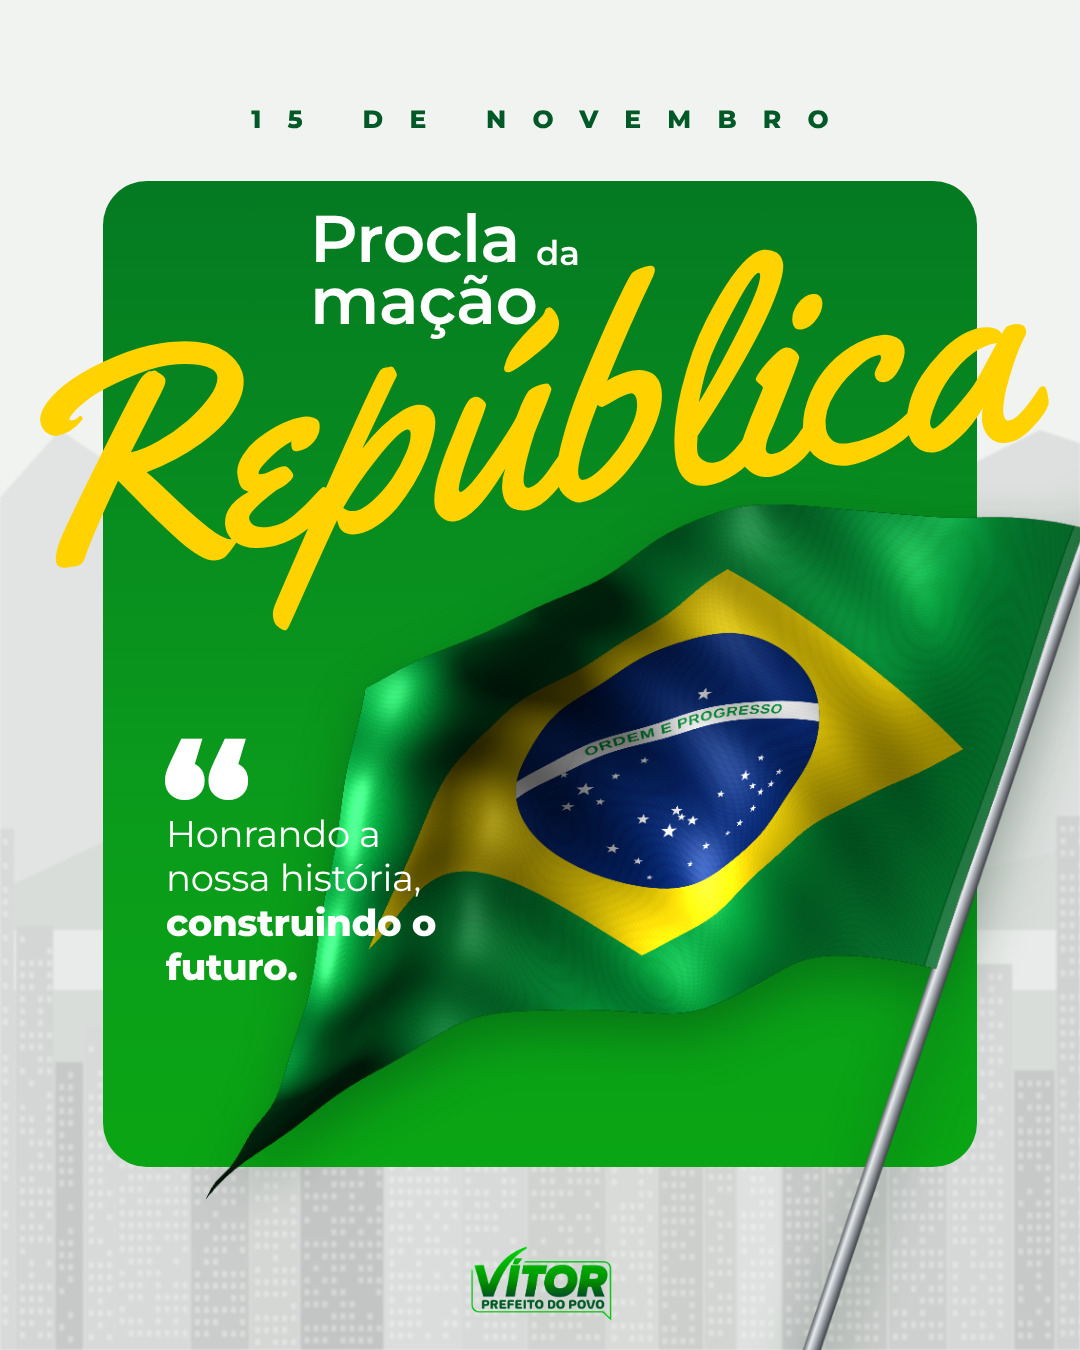
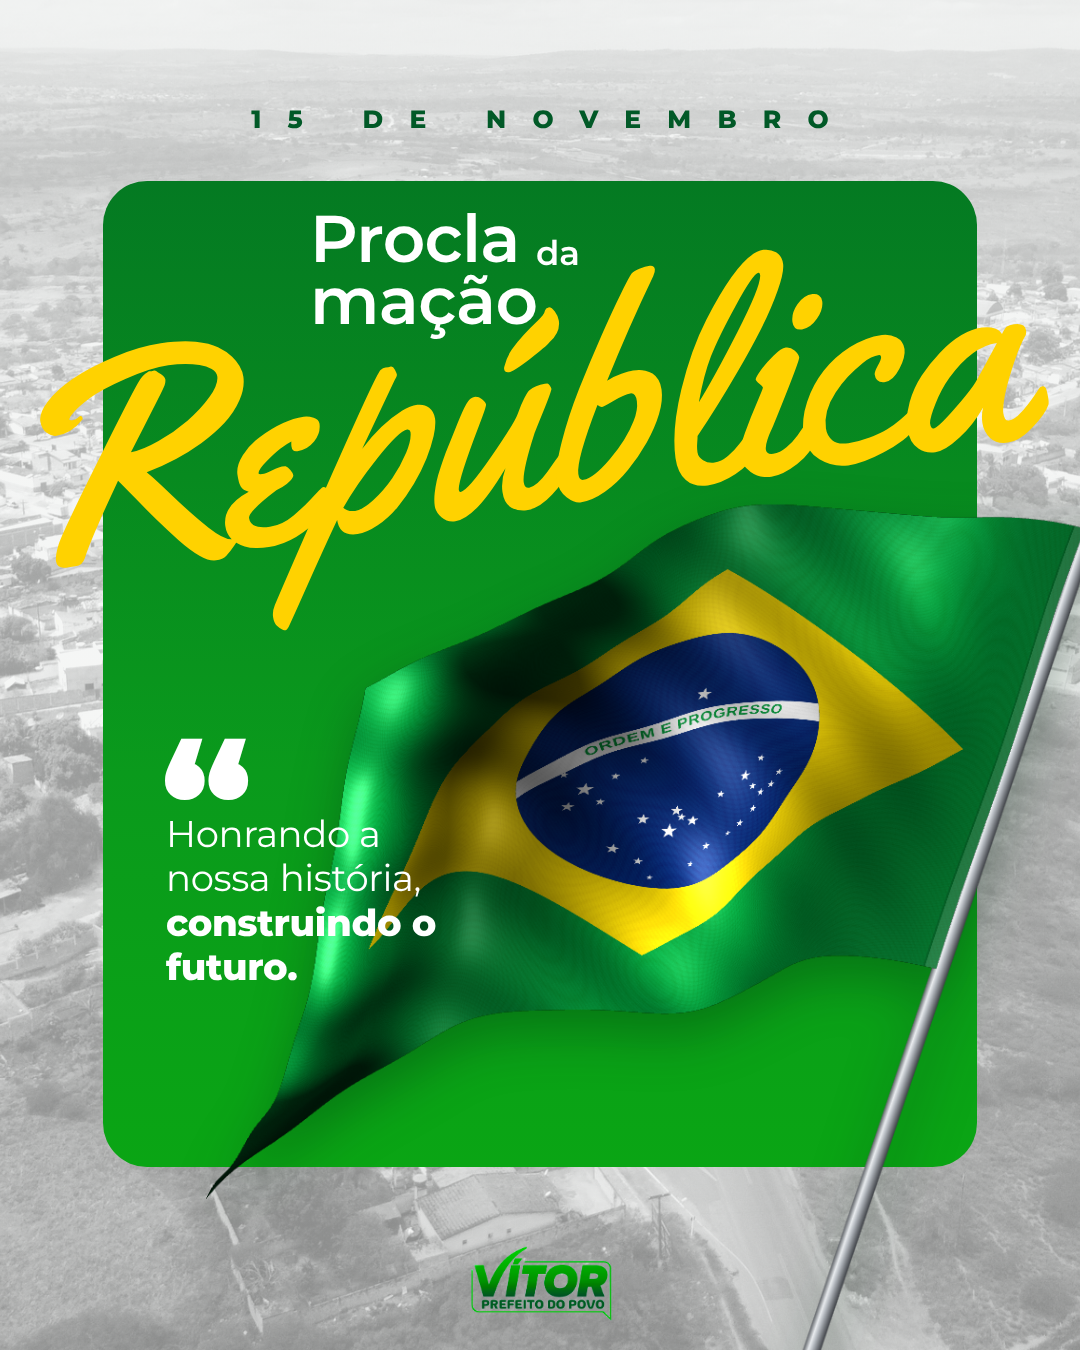
Vitor 15/11: foto aérea de Santanópolis ao fundo (como na referência); salva foto em fotos/cidade
Claude-Session: https://claude.ai/code/session_01RAcsiAg3fWWxJmAb45HbDL

Changed region(s): [[0.0, 0.0311, 1.0, 1.0]]

diff --git a/clientes/prefeito-vitor/entregas/2026-11-15-proclamacao-republica/card.html b/clientes/prefeito-vitor/entregas/2026-11-15-proclamacao-republica/card.html
@@ -4,7 +4,8 @@
 <style>
 *{box-sizing:border-box;margin:0}
 body{width:1080px;height:1350px;overflow:hidden;position:relative;font-family:Montserrat,sans-serif;background:#EEF0EF}
-#cidade{position:absolute;inset:0;filter:blur(1.2px)}
+#cidade{position:absolute;left:0;top:0;width:1080px;height:1350px;object-fit:cover;object-position:52% 60%;filter:grayscale(1) contrast(.85) brightness(1.18);opacity:.55}
+.velo{position:absolute;inset:0;background:linear-gradient(180deg,rgba(240,242,241,.55),rgba(240,242,241,.25) 60%,rgba(240,242,241,.15))}
 .data{position:absolute;top:104px;left:0;right:0;text-align:center;font:800 25px Montserrat;letter-spacing:1.05em;padding-left:1.05em;color:#015927}
 .painel{position:absolute;left:103px;top:181px;width:874px;height:986px;border-radius:44px;background:linear-gradient(180deg,#047A22 0%,#0A9A1C 60%,#0AA514 100%)}
 .procla{position:absolute;left:310px;top:206px;font:600 66px/1 Montserrat;color:#fff;letter-spacing:-.01em}
@@ -18,7 +19,7 @@ body{width:1080px;height:1350px;overflow:hidden;position:relative;font-family:Mo
 footer{position:absolute;top:1236px;left:0;right:0;display:flex;justify-content:center}
 footer img{height:96px}
 </style>
-<canvas id="cidade" width="1080" height="1350"></canvas>
+<img id="cidade" src="../../fotos/cidade/santanopolis-aerea-drone-entrada-cidade.jpg" alt=""><div class="velo"></div>
 <div class="data">15 DE NOVEMBRO</div>
 <div class="painel"></div>
 <div class="procla">Procla</div><div class="da">da</div><div class="macao">mação</div>
@@ -27,18 +28,3 @@ footer img{height:96px}
 <div class="aspas">“</div>
 <div class="frase">Honrando a<br>nossa história,<br><b>construindo o<br>futuro.</b></div>
 <footer><img src="../../identidade/logo-vitor-prefeito-do-povo.png" alt=""></footer>
-<script>
-// cidade genérica em tons de cinza (fundo desbotado, como a foto P&B da referência)
-const c=document.getElementById('cidade').getContext('2d');let s=7;const r=()=>(s=(s*16807)%2147483647)/2147483647;
-c.fillStyle='#F2F3F2';c.fillRect(0,0,1080,1350);
-function morro(pts,cor){c.fillStyle=cor;c.beginPath();c.moveTo(pts[0][0],1350);pts.forEach(p=>c.lineTo(...p));c.lineTo(pts[pts.length-1][0],1350);c.fill()}
-morro([[-20,520],[60,430],[120,470],[200,560],[260,640],[330,700],[420,760]],'#D9DCDA');
-morro([[700,700],[800,600],[880,520],[960,470],[1040,430],[1100,450]],'#D3D6D4');
-morro([[-20,900],[150,820],[320,860],[540,900],[760,860],[940,880],[1100,840]],'#CDD1CE');
-c.fillStyle='#E4E7E5';c.fillRect(0,930,1080,60);
-for(let x=-10;x<1090;){const w=24+r()*60,h=60+r()*260*(x<150||x>900?1.3:1),y=1350-h-r()*40-200*(r()<.15?0:0);
-  const g=170+r()*45|0;c.fillStyle=`rgb(${g},${g+2},${g+1})`;c.fillRect(x,1350-h-150,w,h+150);
-  c.fillStyle=`rgba(255,255,255,.35)`;for(let yy=1350-h-140;yy<1340;yy+=12)for(let xx=x+4;xx<x+w-6;xx+=9)if(r()<.7)c.fillRect(xx,yy,5,6);
-  x+=w+2;}
-c.fillStyle='rgba(242,243,242,.35)';c.fillRect(0,0,1080,1350);
-</script>
